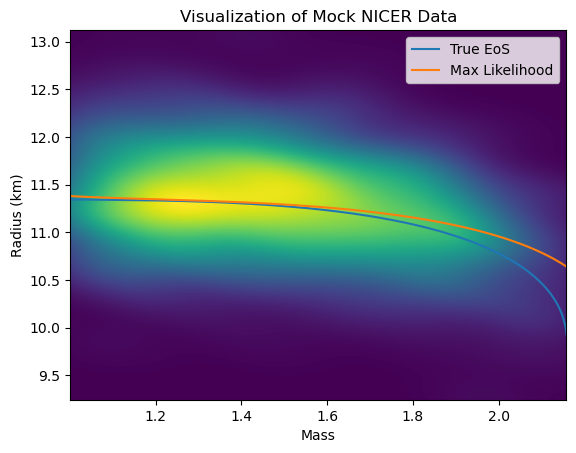
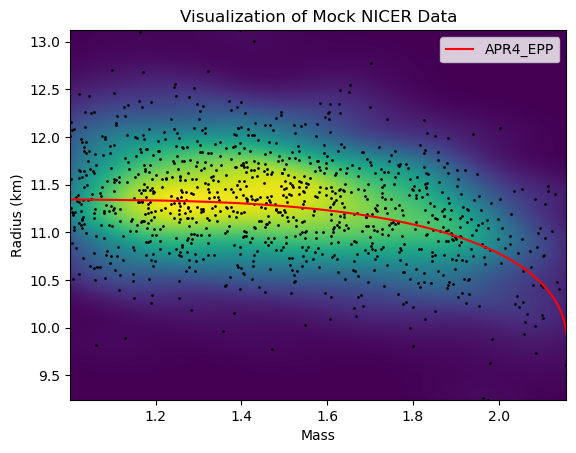
More club plots.

diff --git a/emcee_post.py b/emcee_post.py
@@ -87,6 +87,7 @@ def plot_m_eos_val_on_kde(MCMC_distribution_file, label, N=1000):
     ax.pcolormesh(mm, rr, f)
     ax.set_xlabel('Mass')
     ax.set_ylabel('Radius (km)')
+    pl.scatter(masses,radii,s=1,color="black")
     #ax.set_title("Visualization of Mock NICER Data")
 
     # APR4_EPP
@@ -94,10 +95,11 @@ def plot_m_eos_val_on_kde(MCMC_distribution_file, label, N=1000):
 
     log_p1_SI, g1, g2, g3, _ = global_max(MCMC_distribution_file)
     max_parameters = [log_p1_SI, g1, g2, g3]
-    names = ["True EoS", "Max Likelihood"]
+    names = ["APR4_EPP", "Max Likelihood"]
 
     x = 0
-    combos = [true_parameters, max_parameters]
+    #combos = [true_parameters, max_parameters]
+    combos = [true_parameters]
     for combo in combos:
 
         log_p1_SI, g1, g2, g3 = combo
@@ -120,7 +122,7 @@ def plot_m_eos_val_on_kde(MCMC_distribution_file, label, N=1000):
                 continue
             except IndexError:
                 continue
-        pl.plot(working_masses,working_radii,label=names[x])
+        pl.plot(working_masses,working_radii,label=names[x],color="red")
         x += 1
 
     pl.legend()

diff --git a/ns_eos_dist.py b/ns_eos_dist.py
@@ -110,7 +110,7 @@ def plot_radii_gaussian_kde(datafile, label, save=True):
     pl.clf()
     data = np.loadtxt(datafile)
     m = data[:,0] 
-    r = data[:,1]
+    r = data[:,1] / 1000
 
 #    m_min, m_max = 1, 2.2 # 1.001069, 2.157369
 #    r_min, r_max = 9200, 13200 # 9242.634454, 13119.70321
@@ -132,7 +132,7 @@ def plot_radii_gaussian_kde(datafile, label, save=True):
 
     ax.pcolormesh(mm, rr, f)
     ax.set_xlabel('Mass')
-    ax.set_ylabel('Radius')
+    ax.set_ylabel('Radius (km)')
     pl.scatter(m,r,s=1,color="black")
     pl.title("Mass-Radius Distribution")
 
@@ -509,6 +509,6 @@ def eos_mr_pd_curves(eos_name, N=1000):
     pl.plot(density_grid, logp_grid)
     pl.xlim([10**17, 10**19])
     pl.xlabel("Density")
-    pl.ylabel("Pressure")
+    pl.ylabel("Log Pressure")
     pl.title("Pressure vs Density Curve")
     pl.savefig("emcee_files/plots/{}_PD_Curve.png".format(eos_name), bbox_inches='tight')
